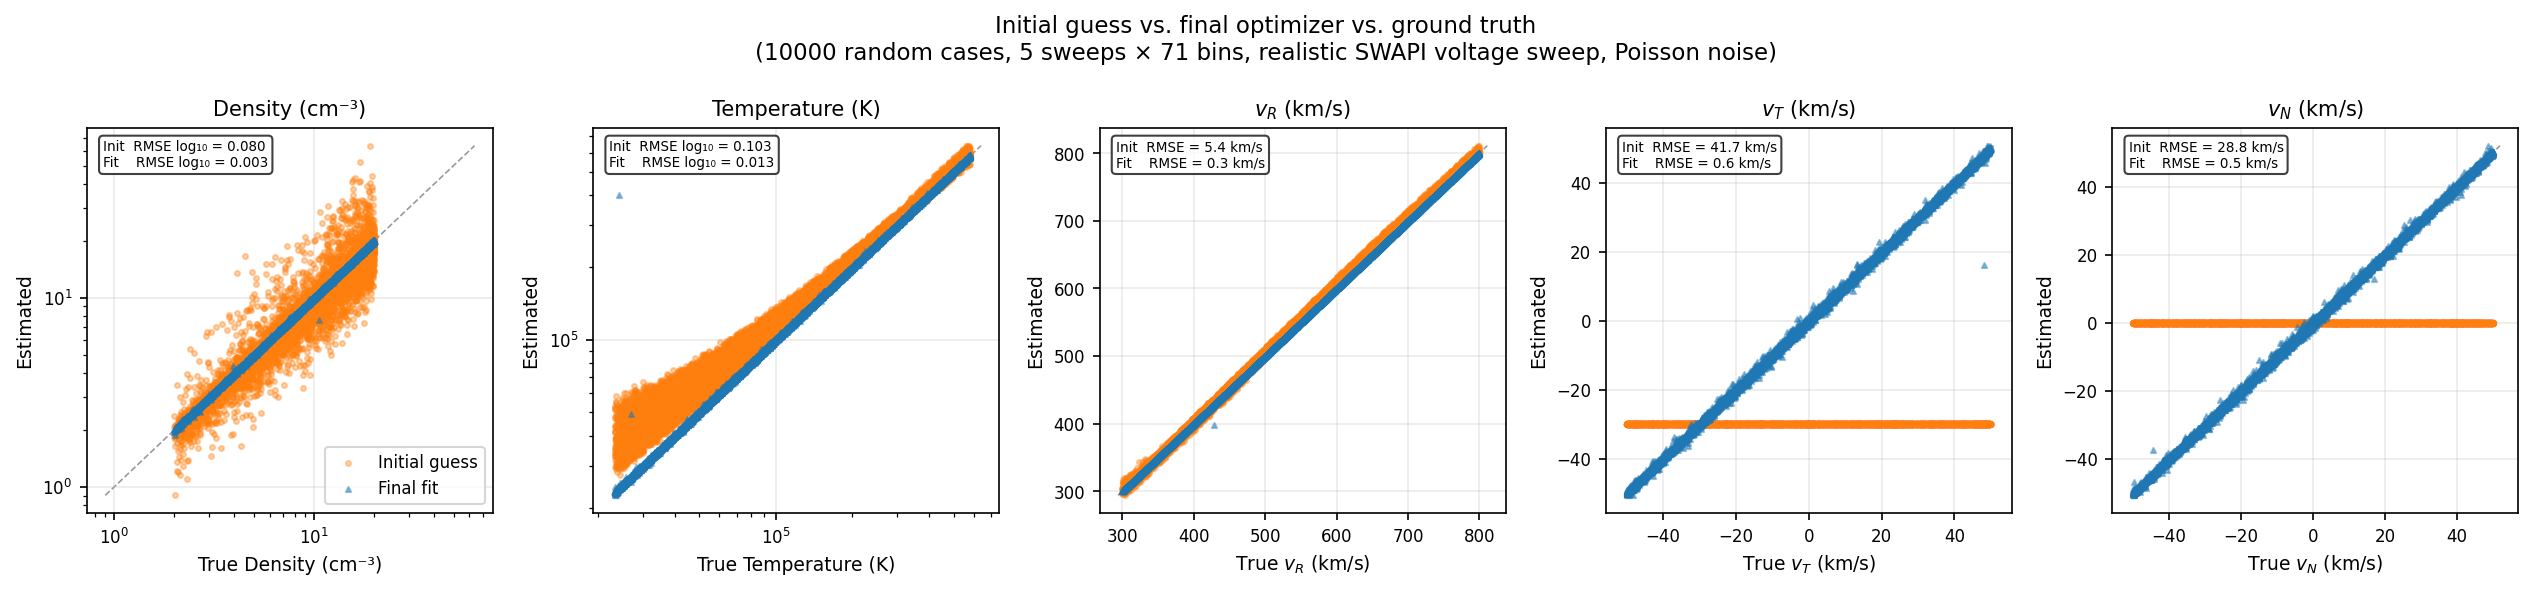
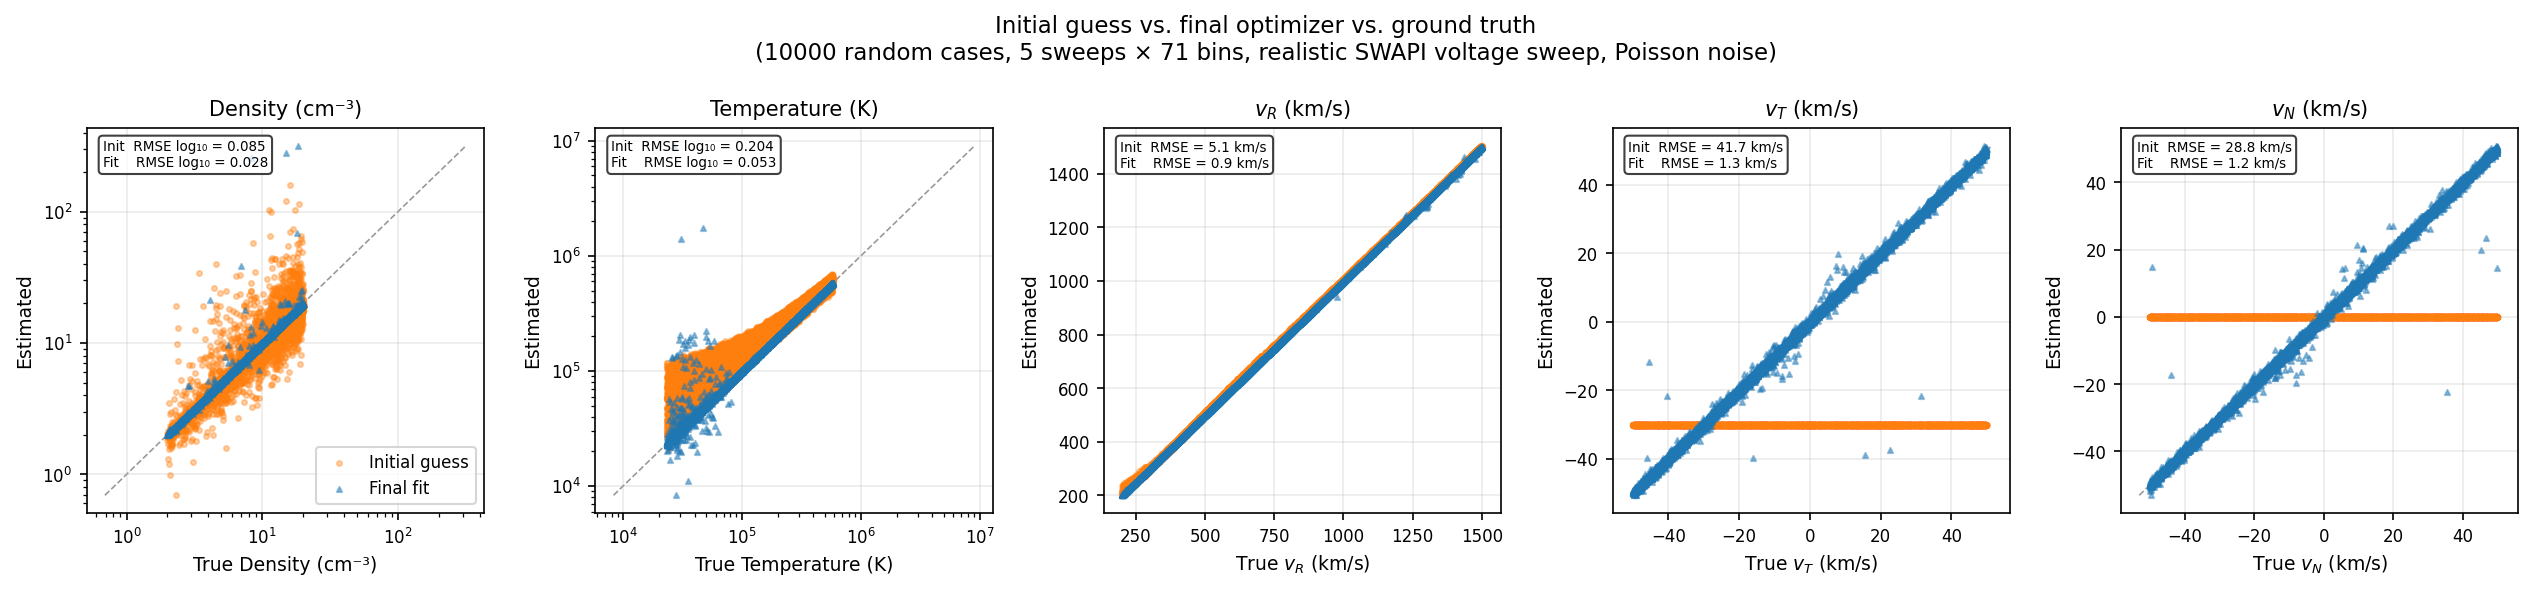
reduce benchmark range

diff --git a/docs/swapi/figure_src/plot_initial_guess_accuracy.py b/docs/swapi/figure_src/plot_initial_guess_accuracy.py
@@ -14,7 +14,7 @@ because scipy.optimize.least_squares does most of its bookkeeping in pure Python
 and holds the GIL.
 
 Solar wind parameter ranges (seed=7):
-  bulk_speed:   200–2000 km/s         (uniform)
+  bulk_speed:   200–1500 km/s         (uniform)
   temperature:  23,000–580,000 K      (log-uniform)
   density:        2–20 cm⁻³          (uniform)
   vT, vN:       −50–50 km/s          (uniform)
@@ -34,6 +34,7 @@ from concurrent.futures import ProcessPoolExecutor, ThreadPoolExecutor  # noqa: 
 import numpy as np
 import numba
 import spacepy.pycdf
+from uncertainties import UFloat
 import matplotlib
 
 matplotlib.use("Agg")
@@ -75,6 +76,11 @@ _N_BINS = 71  # SWAPI_SCIENCE_BINS = slice(1, 72)
 _DT_S = _SWEEP_S / 72  # bin spacing within a 72-bin sweep
 
 _R_BASE_RTN_TO_SWAPI = np.array([[0.0, 1.0, 0.0], [-1.0, 0.0, 0.0], [0.0, 0.0, 1.0]])
+
+
+def _nom(x):
+    """Return the nominal value of a UFloat, or float-cast a plain numeric."""
+    return x.nominal_value if isinstance(x, UFloat) else float(x)
 
 
 def _load_science_voltages() -> np.ndarray:
@@ -198,16 +204,16 @@ def _process_chunk(idx_range):
                 v_b,
                 vT,
                 vN,
-                ig.density,
-                ig.temperature,
-                ig.bulk_velocity_rtn[0],
-                ig.bulk_velocity_rtn[1],
-                ig.bulk_velocity_rtn[2],
-                result.density,
-                result.temperature,
-                result.bulk_velocity_rtn[0],
-                result.bulk_velocity_rtn[1],
-                result.bulk_velocity_rtn[2],
+                _nom(ig.density),
+                _nom(ig.temperature),
+                _nom(ig.bulk_velocity_rtn[0]),
+                _nom(ig.bulk_velocity_rtn[1]),
+                _nom(ig.bulk_velocity_rtn[2]),
+                _nom(result.density),
+                _nom(result.temperature),
+                _nom(result.bulk_velocity_rtn[0]),
+                _nom(result.bulk_velocity_rtn[1]),
+                _nom(result.bulk_velocity_rtn[2]),
                 bool(result.bad_fit_flag),
             )
         )
@@ -216,7 +222,7 @@ def _process_chunk(idx_range):
 
 def _run_cases(voltages: np.ndarray) -> dict:
     rng = np.random.default_rng(_RNG_SEED)
-    bulk_speeds = rng.uniform(200, 2000, _N_SAMPLES)
+    bulk_speeds = rng.uniform(200, 1500, _N_SAMPLES)
     temperatures = np.exp(
         rng.uniform(np.log(2 * EV_TO_KELVIN), np.log(50 * EV_TO_KELVIN), _N_SAMPLES)
     )
